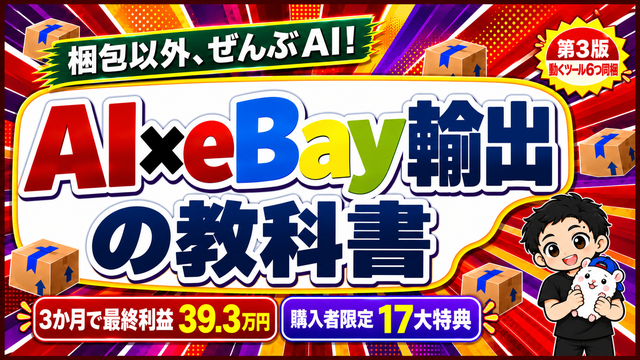
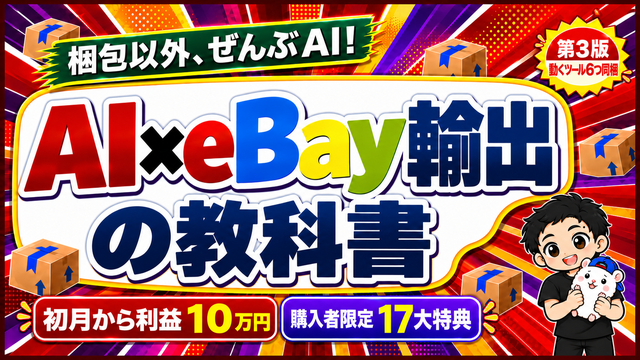
eBay textbook: unify headline to 'first month profit 100k', fix bonus count, send cham profile link straight to the sales page

diff --git a/kyokasho/ebay/index.html b/kyokasho/ebay/index.html
@@ -5,10 +5,10 @@
 <script async src="https://www.googletagmanager.com/gtag/js?id=G-CHWF6QKRJ6"></script>
 <script>window.dataLayer=window.dataLayer||[];function gtag(){dataLayer.push(arguments);}gtag('js',new Date());gtag('config','G-CHWF6QKRJ6');</script>
 <meta name="viewport" content="width=device-width, initial-scale=1.0">
-<title>AI × eBay輸出の教科書 — 梱包以外、ぜんぶAI｜初月利益10万円の実店舗の全記録</title>
+<title>AI × eBay輸出の教科書 — 梱包以外、ぜんぶAI｜初月から利益10万円の実店舗の全記録</title>
 <meta name="description" content="梱包発送以外ぜんぶAIに任せて、初月から最終利益10万4,286円。eBay無在庫輸出の店を作った全手順と、実測の数字を全部書いた教科書。公式¥34,800(2026年10月 第3版・3部売れるごとに値上げ・39,800円まで)。">
 <meta property="og:title" content="AI × eBay輸出の教科書 — 梱包以外、ぜんぶAI">
-<meta property="og:description" content="梱包発送以外ぜんぶAI。初月利益10万円の実店舗の記録を全部書きました。">
+<meta property="og:description" content="梱包発送以外ぜんぶAI。初月から利益10万円の実店舗の記録を全部書きました。">
 <meta property="og:image" content="https://rental-space.net/assets/kyokasho_ebay_cover_v6_1280x720.png">
 <meta property="og:url" content="https://rental-space.net/kyokasho/ebay/">
 <meta property="og:type" content="website">
@@ -61,16 +61,16 @@ a{color:var(--blue-dark);overflow-wrap:anywhere}hr{border:0;border-top:2px dashe
 <main class="wrap">
 <section class="hero">
   <img src="/assets/kyokasho_ebay_banner_v6.png" alt="AI × eBay輸出の教科書 — 梱包以外、ぜんぶAI" width="640" height="360">
-  <h1>梱包発送以外、ぜんぶAI。<br>初月利益10万円の店の作り方を、全部書きました。</h1>
+  <h1>梱包発送以外、ぜんぶAI。<br>初月から利益10万円の店の作り方を、全部書きました。</h1>
   <p>リサーチ・出品・値付け・在庫監視・英語の顧客対応・経理まで、AI社員に任せた実店舗の記録です。公式サイト最安 ¥34,800(Brain・noteは¥35,800。累計<span data-stock="sold">53</span>部・3部売れるごとに値上げ)。</p>
-  <p class="facts"><span>✓ 初月の最終利益 10万4,286円</span><span>✓ 売れた個数29個</span><span>✓ 人間の仕事は梱包発送だけ</span><span>✓ 特典12点+第3版の付録6つ</span><span class="v3">✓ 2026年10月 第3版(全24章)</span></p>
+  <p class="facts"><span>✓ 初月の最終利益 10万4,286円</span><span>✓ 売れた個数29個</span><span>✓ 人間の仕事は梱包発送だけ</span><span>✓ 特典17点(第3版で付録6つを追加・更新)</span><span class="v3">✓ 2026年10月 第3版(全24章)</span></p>
   <p class="stock-line" id="stock-line">いま <strong>¥34,800</strong> → 次は ¥36,800。<strong>次の値上げまで残り<span data-stock="remain">2</span>部</strong>(累計<span data-stock="sold">53</span>部・全販売ページの合計)</p>
   <p style="margin-top:10px"><a class="btn btn-stripe" href="#buy" style="min-height:52px;font-size:15px;margin-top:0" data-cta="jump_buy"><span class="btn-main">価格と買い方を見る ↓</span></a></p>
 </section>
 <article>
 <!-- 冒頭1行(Brain/note本文のいちばん上) -->
 <p>いまの価格 公式サイト34,800円(Brain・noteは35,800円)。第3版(2026年10月)から値上げを再開し、3部売れるごとに2,000円ずつ上げて公式サイト39,800円(Brain・note 40,800円)で止めます。※部数はすべての販売ページの合計
-※題名の「3か月で最終利益39.3万円」は、うちの店の記録(1ヶ月目10.4万・2ヶ月目13.1万・3ヶ月目15.8万円)です。最終利益=売上から仕入れ・手数料・送料を引いたあとの利益。あなたの結果を約束するものではありません</p>
+※題名の「初月から利益10万円」は、うちの店の初月の記録(最終利益10万4,286円)です。最終利益=売上から仕入れ・手数料・送料を引いたあとの利益。あなたの結果を約束するものではありません</p>
 <!-- price-history:start -->
 <table>
 <thead>

diff --git a/x/cham/index.html b/x/cham/index.html
@@ -6,22 +6,23 @@
 <meta name="robots" content="noindex">
 <title>移動しています</title>
 <!-- Xのプロフィールのリンク欄はこのURLのまま。行き先はここだけ書きかえる(設計_無料特典とリスト_20261019.md §3-1b)。2026-10-30 大介さん「もとに戻して」で10/19より前のnoteのトップに戻した(LINEの受け取りページ /line/ebay/ はそのまま公開) -->
-<!-- 2026-11-16 大介さん「回数を記録する直し、進めて」: すぐ飛ぶとGA4に記録されなかったので、記録してから飛ぶ(最大0.8秒)。JSが動かないときの予備で2秒後にも飛ぶ -->
-<meta http-equiv="refresh" content="2; url=https://note.com/cham_ebay">
+<!-- 2026-11-16 大介さん「チャムのリンクを直行にして」: 行き先をnoteのトップ→eBay教科書の直販ページへ(戻すときは note.com/cham_ebay に)。
+     2026-11-16 大介さん「回数を記録する直し、進めて」: すぐ飛ぶとGA4に記録されなかったので、記録してから飛ぶ(最大0.8秒)。JSが動かないときの予備で2秒後にも飛ぶ -->
+<meta http-equiv="refresh" content="2; url=https://rental-space.net/kyokasho/ebay/?utm_source=x&utm_medium=profile&utm_campaign=cham_profile">
 <script async src="https://www.googletagmanager.com/gtag/js?id=G-CHWF6QKRJ6"></script>
 <script>
 window.dataLayer=window.dataLayer||[];function gtag(){dataLayer.push(arguments);}
 gtag('js',new Date());
 gtag('config','G-CHWF6QKRJ6',{send_page_view:false});
-(function(){var done=false;var go=function(){if(done)return;done=true;location.replace('https://note.com/cham_ebay');};
+(function(){var done=false;var go=function(){if(done)return;done=true;location.replace('https://rental-space.net/kyokasho/ebay/?utm_source=x&utm_medium=profile&utm_campaign=cham_profile');};
 gtag('event','page_view',{page_title:'X profile link cham',page_location:location.href,transport_type:'beacon'});
-gtag('event','x_profile_link',{account:'cham',dest:'note',transport_type:'beacon',event_callback:go});
+gtag('event','x_profile_link',{account:'cham',dest:'lp_ebay',transport_type:'beacon',event_callback:go});
 setTimeout(go,800);})();
 </script>
 <link rel="stylesheet" href="/assets/site-footer.css?v=20260919">
 </head>
 <body style="font-family:sans-serif;padding:24px 16px">
-<p><a href="https://note.com/cham_ebay">ページへ移動します</a></p>
+<p><a href="https://rental-space.net/kyokasho/ebay/?utm_source=x&utm_medium=profile&utm_campaign=cham_profile">ページへ移動します</a></p>
 <footer class="site-home-footer">
 <!-- site-home-link start -->
 <nav class="site-home-nav" aria-label="サイトトップ"><a href="/">きくりんのノウハウ垂れ流し TOP</a></nav>
